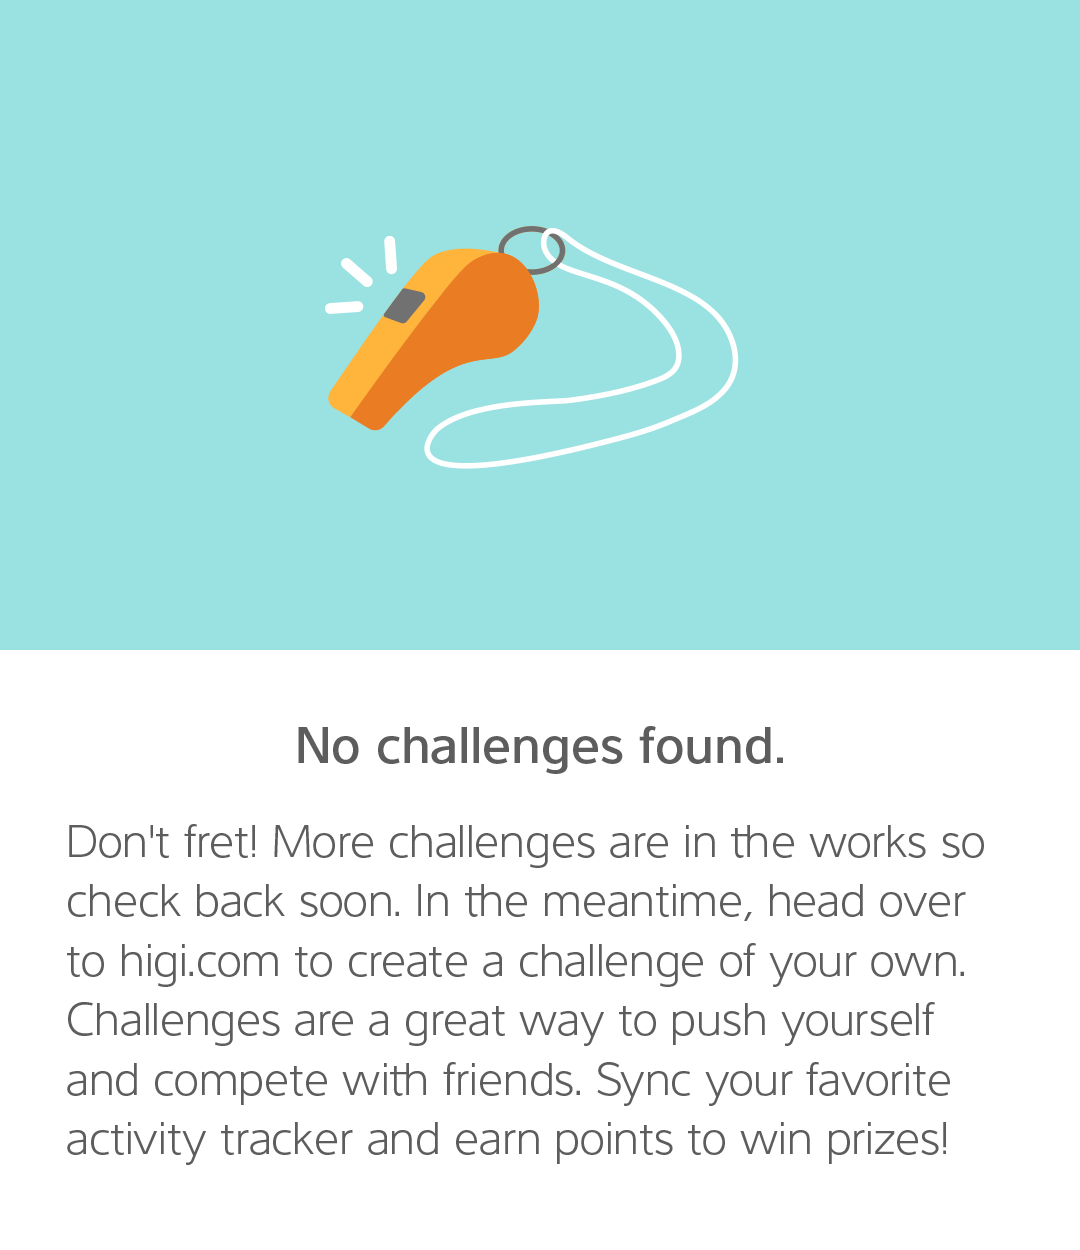
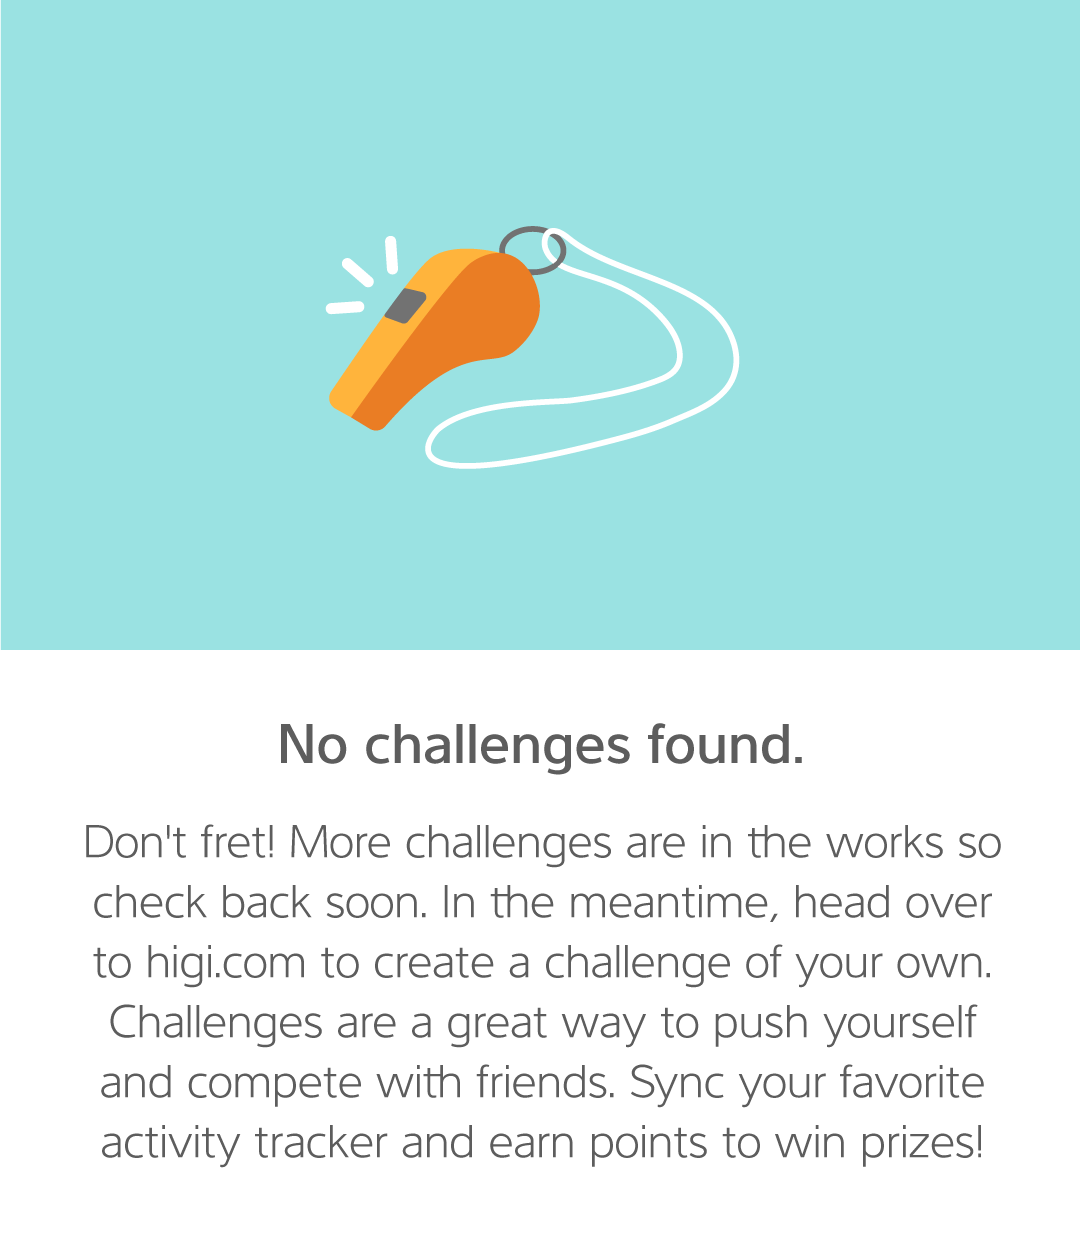
HMI-362: blank states

Changed region(s): [[0.0611, 0.6552, 0.9167, 0.936], [0.2444, 0.5616, 0.7333, 0.624], [0.4889, 0.1872, 0.5194, 0.2184]]

diff --git a/higi/ActivityViewController.swift b/higi/ActivityViewController.swift
@@ -20,8 +20,10 @@ class ActivityViewController: BaseViewController, UITableViewDelegate, UITableVi
     @IBOutlet weak var legendButton: UIImageView!
     @IBOutlet weak var pointsMeterContainer: UIView!
     @IBOutlet weak var noPoints: UIImageView!
-    @IBOutlet weak var bigBlankState: UIImageView!
     
+    @IBOutlet weak var errorState: UIView!
+    @IBOutlet weak var noActivityEverView: UIView!
+
     @IBOutlet weak var headerContainer: UIView!
     @IBOutlet weak var activityContainer: UIView!
     var pointsMeter: PointsMeter!;
@@ -297,7 +299,11 @@ class ActivityViewController: BaseViewController, UITableViewDelegate, UITableVi
             graphContainer.addSubview(monthGraph);
         } else {
             tableView.hidden = true;
-            bigBlankState.hidden = false;
+            if (SessionController.Instance.earnditError) {
+                errorState.hidden = false;
+            } else {
+                noActivityEverView.hidden = false;
+            }
         }
     }
     
@@ -313,6 +319,11 @@ class ActivityViewController: BaseViewController, UITableViewDelegate, UITableVi
         meterContainer.addSubview(legendView);
         
         meterContainer.bringSubviewToFront(legendButton);
+    }
+    
+    @IBAction func connectDevices(sender: AnyObject) {
+        Flurry.logEvent("ConnectDevice_Pressed");
+        self.navigationController!.pushViewController(ConnectDeviceViewController(nibName: "ConnectDeviceView", bundle: nil), animated: true);
     }
     
     @IBAction func legendButtonTapped(sender: AnyObject) {
